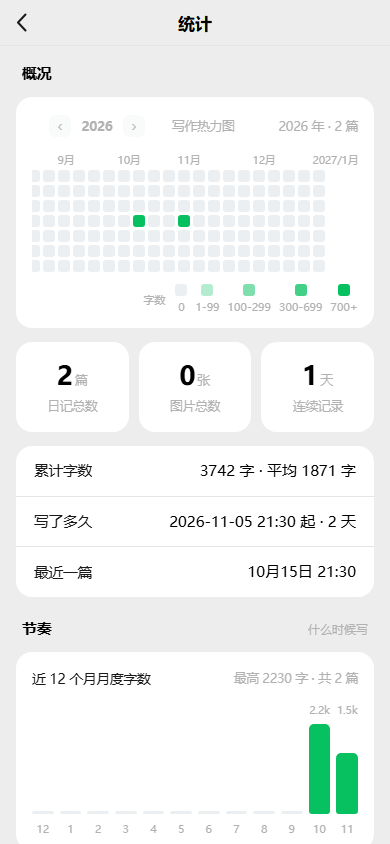
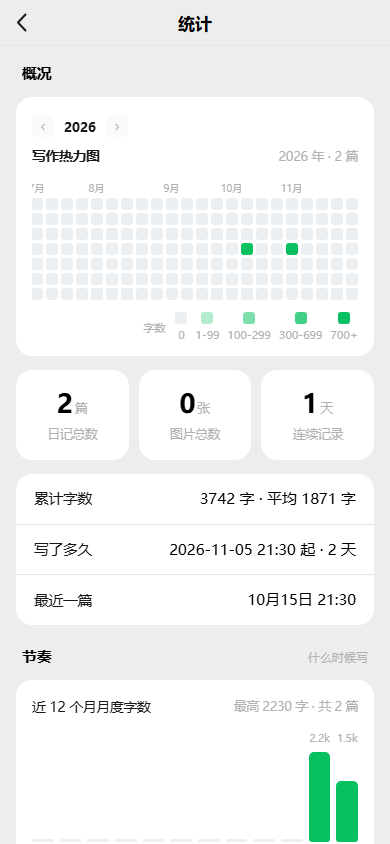
v2.10.1: 日期筛选后保持原位不自动滚动; 热力图起始周跨年补位置灰; 版本 2.10.1/build16

diff --git a/index.html b/index.html
@@ -170,7 +170,7 @@ input,textarea{font-family:inherit}
    每一级只在"确实有分支"时出现（只有一年不摆年份行、某年只有一个月就直接摆日期）。
    横向滚动而不是换行铺满 —— 年份/日期一多（跨四五年、一个月 31 天）换行会把列表顶到屏幕外。
    只列出**有数据**的年月日：空的日期点进去什么都没有，是个纯粹的噪音（统计页同理）。 */
-.timebar{background:var(--card);border-bottom:.5px solid var(--line);padding:10px 0 2px}
+.timebar{background:var(--card);border-bottom:.5px solid var(--line);padding:10px 0 2px;position:sticky;top:0;z-index:3}
 .timebar[hidden]{display:none}
 .tb-row{
   display:flex;gap:7px;padding:0 14px 8px;overflow-x:auto;
@@ -829,8 +829,9 @@ input,textarea{font-family:inherit}
 .heat-dows{display:flex;flex-direction:column;gap:3px;padding-top:17px}
 .heat-dows span{height:12px;line-height:12px;font-size:10.5px;color:var(--sub)}
 .heat-col{display:flex;flex-direction:column;gap:3px}
-/* 月份标签固定 12px 宽并允许溢出：不固定的话文字会把整列撑宽，格子就散了 */
-.heat-m{flex:none;width:12px;height:14px;line-height:14px;font-size:10.5px;color:var(--sub);white-space:nowrap}
+/* 月份标签：只写月份，宽度跟格子，文字不横向溢出叠到相邻列 */
+.heat-m{flex:none;width:12px;height:14px;display:flex;align-items:center;justify-content:center;line-height:14px;color:var(--sub);white-space:nowrap}
+.hm-m{font-size:10px}
 .heat-c{width:12px;height:12px;border-radius:3px;background:var(--ink-tint)}
 .heat-grid .heat-c{cursor:pointer}
 .heat-c.l1{background:var(--green);opacity:.3}
@@ -838,14 +839,16 @@ input,textarea{font-family:inherit}
 .heat-c.l3{background:var(--green);opacity:.76}
 .heat-c.l4{background:var(--green)}
 .heat-legend{display:flex;align-items:center;justify-content:flex-end;gap:10px;margin-top:12px;font-size:11px;color:var(--sub)}
-/* 热力图年份切换：‹ 年份 ›，位于标题最左 */
+/* 热力图年份切换：‹ 年份 ›，独占一行，位于月份标签上方，不和标题挤在一起 */
+.heat-year-row{margin:0 0 10px}
 .heat-title{gap:10px;align-items:center}
+/* 标题名要覆盖全局 .chart-title span 的 sub 色与 auto 左边距，否则标题被推到中间还变灰 */
+.heat-title .heat-title-name{margin-left:0;margin-right:auto;color:var(--text);font-size:13.5px;font-weight:600}
 .heat-year-switch{display:flex;align-items:center;gap:6px}
 .heat-yb{flex:none;width:22px;height:22px;border:0;border-radius:6px;background:var(--ink-tint);color:var(--text);font-size:16px;line-height:1;display:flex;align-items:center;justify-content:center;padding:0}
 .heat-yb:active{opacity:.75}
 .heat-yb:disabled{opacity:.3;pointer-events:none}
-.heat-year-num{font-size:13px;font-weight:600;min-width:40px;text-align:center}
-.heat-title-name{margin-right:auto}
+.heat-year-num{font-size:13px;font-weight:600;min-width:40px;text-align:center;color:var(--text)}
 /* 每档一个竖排小单元：色块在上、字数在正下方 —— 数字不再和色块挤在一行里分不清归属 */
 .heat-legend .hl-grid{display:flex;gap:8px}
 .heat-legend .hl{display:flex;flex-direction:column;align-items:center;gap:3px}
@@ -3135,22 +3138,16 @@ function filterLabel(f) {
          (f.m != null && f.d != null ? f.d + '日' : '');
 }
 
-/**
- * 筛选后把命中的首条滚到可视区顶部。
- * 用矩形差值（而非 offsetTop）：不依赖 offsetParent 基准，跨容器层级也稳。
- * 第一帧先定位；等图片 src / 折叠按钮异步落地后再校正一次，避免撑高后位置跑偏。
- */
-function scrollFilterTarget(scEl, targetEl) {
-  if (!scEl || !targetEl) return;
-  function place() {
-    var scRect = scEl.getBoundingClientRect();
-    if (scRect.height <= 0) return;            // 面板隐藏：量不到，跳过
-    var tRect = targetEl.getBoundingClientRect();
-    if (!tRect.height) return;                  // 元素已被重渲染替换：跳过
-    scEl.scrollTop += tRect.top - scRect.top - 12;
-  }
-  requestAnimationFrame(place);
-  setTimeout(place, 160);
+/** 把每行当前选中的 chip 在其横向行内滚动到居中（微信式：选中项不被挤到边缘） */
+function centerActiveChip(host) {
+  host.querySelectorAll('.tb-row').forEach(function (row) {
+    var on = row.querySelector('.tb-chip.on');
+    if (!on) return;
+    var r = on.getBoundingClientRect(), rr = row.getBoundingClientRect();
+    if (!rr.width) return;
+    var delta = (r.left + r.width / 2) - (rr.left + rr.width / 2);
+    row.scrollLeft = delta;
+  });
 }
 
 /**
@@ -3211,6 +3208,7 @@ function renderTimebar(host, idx, f, unit) {
   if (!html) { host.innerHTML = ''; host.hidden = true; return; }
   host.hidden = false;
   host.innerHTML = html;
+  centerActiveChip(host);
 }
 
 /** chip 的点击委托：data-tb 说明点的是年/月/日，data-v 是值（空串 = 不限） */
@@ -3404,10 +3402,6 @@ function renderTimeline() {
   hydrateAvatars(wrap);
   hydrateAudios(wrap);
   syncPostFold(wrap);
-  // 筛选到具体年/月/日后，把命中的首条滚到可视区顶部，而不是停在列表开头
-  if (State.tlFilter.y != null || State.tlFilter.m != null || State.tlFilter.d != null) {
-    scrollFilterTarget($('#homeScroll'), wrap.querySelector('.post'));
-  }
 }
 /** 回填语音条时长：entry 里只存 id，时长在 audio 仓库里 */
 function hydrateAudios(wrap) {
@@ -3736,10 +3730,6 @@ function renderGallery() {
         }).join('') + '</div></div>';
     }).join('');
   hydrateImages(inner);
-  // 筛选到具体年/月/日后，把命中的首组滚到可视区顶部
-  if (State.galFilter.y != null || State.galFilter.m != null || State.galFilter.d != null) {
-    scrollFilterTarget($('#galleryScroll'), inner.querySelector('.gal-month'));
-  }
 }
 
 /* ---------------- 搜索 ---------------- */
@@ -3831,13 +3821,19 @@ function hourLabel(h) {
 function heatmapHtml(byDay, year) {
   var today = new Date();
   today.setHours(0, 0, 0, 0);
-  // 该年起点：1 月 1 日所在周的周一；终点：12 月 31 日所在周的周日（与 GitHub 热力图同构）
-  var yearStart = new Date(year, 0, 1);
-  var yearEnd = new Date(year, 11, 31);
-  var start = new Date(yearStart);
+  // 起点：1 月 1 日所在周的周一。
+  // 终点：往年已结束 → 12 月 31 日所在周周日；当前年 → 只铺到本周日，
+  //       后面还没到的日期不提前摆出来（避免右侧一大片未来空格）。
+  var start = new Date(year, 0, 1);
   start.setDate(start.getDate() - ((start.getDay() + 6) % 7));
-  var end = new Date(yearEnd);
-  end.setDate(end.getDate() + (6 - ((end.getDay() + 6) % 7)));
+  var end;
+  if (year === today.getFullYear()) {
+    end = new Date(today);
+    end.setDate(end.getDate() + (6 - ((end.getDay() + 6) % 7)));
+  } else {
+    end = new Date(year, 11, 31);
+    end.setDate(end.getDate() + (6 - ((end.getDay() + 6) % 7)));
+  }
   var WEEKS = Math.round((end - start) / (7 * 86400000)) + 1;
 
   function level(v) {
@@ -3848,7 +3844,7 @@ function heatmapHtml(byDay, year) {
     return 4;
   }
 
-  var lastMonth = -1, lastYear = -1;
+  var lastMonth = -1;
   var cols = '';
   for (var c = 0; c < WEEKS; c++) {
     var mon = new Date(start);
@@ -3856,20 +3852,23 @@ function heatmapHtml(byDay, year) {
     var label = '';
     if (mon.getMonth() !== lastMonth) {
       lastMonth = mon.getMonth();
-      // 跨年的第一列带上年份（如 2025/12、2026/1），避免两个 1 月 / 12 月分不清
-      label = (mon.getFullYear() !== lastYear ? mon.getFullYear() + '/' : '') + (lastMonth + 1) + '月';
-      lastYear = mon.getFullYear();
+      // 只标注属于当前展示年份的月份；跨年起始周里上一年 12 月那列不标，
+      // 否则「12月」和相邻的「1月」两个溢出标签会横向撞在一起。
+      if (mon.getFullYear() === year) {
+        label = '<span class="hm-m">' + (lastMonth + 1) + '月</span>';
+      }
     }
     var cells = '';
     for (var r = 0; r < 7; r++) {
       var d = new Date(start);
       d.setDate(start.getDate() + c * 7 + r);
       var n = byDay[d.getTime()] || 0;
-      // 超出该年或晚于今天的格子不画（往年已结束、未来还没到）
+      // 只点亮属于当前展示年份、且不晚于今天的格子；跨年起始周里上一年 12 月末、
+      // 终点周里下一年 1 月初的补位格仍保留位置对齐，但置灰占位、不显示日期。
       var inRange = d.getFullYear() === year && d.getTime() <= today.getTime();
       var lv = inRange ? level(n) : 0;
-      cells += '<div class="heat-c' + (lv ? ' l' + lv : '') + '" title="' +
-        (d.getMonth() + 1) + '月' + d.getDate() + '日' + (n ? ' · ' + n + ' 字' : '') + '"></div>';
+      var tip = inRange ? ((d.getMonth() + 1) + '月' + d.getDate() + '日' + (n ? ' · ' + n + ' 字' : '')) : '';
+      cells += '<div class="heat-c' + (lv ? ' l' + lv : '') + '" title="' + tip + '"></div>';
     }
     cols += '<div class="heat-col"><div class="heat-m">' + label + '</div>' + cells + '</div>';
   }
@@ -4082,12 +4081,14 @@ function renderStats() {
     '<div class="stat-sec first">' +
       statHead('概况') +
       '<div class="chart-card">' +
-        '<div class="chart-title heat-title">' +
+        '<div class="heat-year-row">' +
           '<span class="heat-year-switch">' +
             '<button type="button" class="heat-yb" data-heat-year="' + heatPrev + '"' + (heatPrev == null ? ' disabled' : '') + ' aria-label="上一年">‹</button>' +
             '<span class="heat-year-num">' + heatYear + '</span>' +
             '<button type="button" class="heat-yb" data-heat-year="' + heatNext + '"' + (heatNext == null ? ' disabled' : '') + ' aria-label="下一年">›</button>' +
           '</span>' +
+        '</div>' +
+        '<div class="chart-title heat-title">' +
           '<span class="heat-title-name">写作热力图</span>' +
           '<span>' + escapeHtml(heatNote) + '</span>' +
         '</div>' +
@@ -4674,7 +4675,7 @@ function openSheet(items) {
  * 导出路径先按平台给静态兜底，原生端再用 Filesystem.getUri() 取真实目录校正。
  */
 /* 网页兜底版本：原生包以 App.getInfo() 读到的 versionName 为准，这里只是读不到插件时的退路 */
-var APP_FALLBACK_VERSION = '2.10';
+var APP_FALLBACK_VERSION = '2.10.1';
 
 function openInfoDialog() {
   var APP_ID = 'com.chenchang.diary';
@@ -5183,30 +5184,15 @@ function bindLongPress(root, selector, handler) {
 /* ---------------- 设置页渲染 ---------------- */
 function renderSettings() {
   renderProfile();
-  // 配额分三种后端：IndexedDB 走浏览器真实配额（按磁盘可用空间比例，通常远大于 200MB）；
-  // localStorage 降级约 5MB；内存临时模式不持久化、不画容量条。
-  function quotaBytes() {
-    if (Store.mode === 'local') return Promise.resolve(5 * 1024 * 1024);
-    if (Store.mode === 'memory') return Promise.resolve(0);
-    if (navigator.storage && navigator.storage.estimate) {
-      return navigator.storage.estimate().then(function (q) {
-        // quota 为浏览器给本来源的总配额；取不到时回退 200MB 保守值
-        return (q && q.quota) || 200 * 1024 * 1024;
-      }).catch(function () { return 200 * 1024 * 1024; });
-    }
-    return Promise.resolve(200 * 1024 * 1024);
-  }
-  Promise.all([Store.usage(), quotaBytes()]).then(function (res) {
-    var bytes = res[0], limit = res[1];
+  Store.usage().then(function (bytes) {
     var hint = $('#exportHint');
     var bar = $('#storageBar');
     // 关键：0 也要写一遍。以前这里遇到 0 直接 return，于是「清空全部日记」之后屏幕上
     // 会一直留着清空前那个「已用 xx MB」——看着像没清干净。
-    hint.textContent = bytes
-      ? ('已用 ' + ImageProc.fmtSize(bytes) + (limit ? ' / 约 ' + ImageProc.fmtSize(limit) : ''))
-      : '暂无内容';
-    bar.style.display = (bytes && limit) ? 'block' : 'none';
-    if (!bytes || !limit) return;
+    hint.textContent = bytes ? '已用 ' + ImageProc.fmtSize(bytes) : '暂无内容';
+    bar.style.display = bytes ? 'block' : 'none';
+    if (!bytes) return;
+    var limit = Store.mode === 'idb' ? 200 * 1024 * 1024 : 5 * 1024 * 1024;
     bar.firstElementChild.style.width = Math.min(100, bytes / limit * 100).toFixed(1) + '%';
   });
 }
